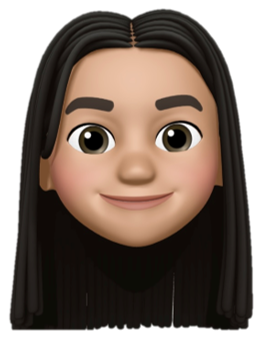
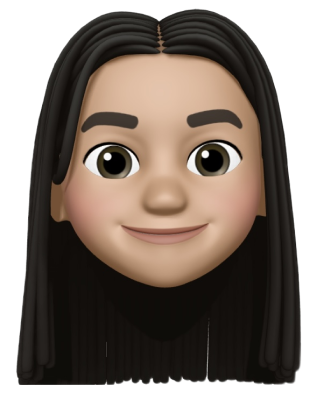
added styling and replaced memoji image

diff --git a/styles/contact.css b/styles/contact.css
@@ -1,0 +1,88 @@
+* {
+  font-family: "Azeret Mono", monospace;
+  color: #1e1e1e;
+  margin: 0;
+}
+
+body {
+  background-image: url("../../../images/gradient.jpg");
+  height: 100vh;
+  width: 100vw;
+  display: flex;
+  flex-direction: column;
+  justify-content: space-between;
+}
+
+main {
+  display: flex;
+  align-items: center;
+  justify-content: space-between;
+  padding: 0 10vw;
+}
+main .navbar {
+  border: 1px solid #1e1e1e;
+  border-top: none;
+  border-bottom: none;
+  border-left: none;
+  margin-right: 80px;
+}
+main .navbar__list {
+  text-align: right;
+  margin-right: 15px;
+}
+main .navbar__item {
+  list-style-type: none;
+  padding: 13px;
+  font-weight: 500;
+}
+main .navbar__item a {
+  text-decoration: none;
+}
+main .navbar__item a:hover {
+  background-color: white;
+}
+
+header {
+  text-align: center;
+  margin-top: 30px;
+}
+header .logo {
+  font-size: 50px;
+  font-weight: 500;
+  margin-bottom: 10px;
+}
+header .breadcrumb {
+  font-size: small;
+  font-weight: 400;
+  color: white;
+}
+
+footer .footer__copyright {
+  text-align: center;
+  font-weight: 200;
+  font-size: 12px;
+  margin-bottom: 30px;
+  color: white;
+}
+
+.memoji {
+  height: 500px;
+}
+
+.contact-information {
+  display: flex;
+  flex-direction: column;
+  gap: 10px;
+}
+.contact-information__title {
+  font-size: 25px;
+  margin-bottom: 30px;
+}
+.contact-information__item {
+  display: flex;
+  align-items: center;
+}
+.contact-information__item__icon {
+  height: 35px;
+  margin-right: 10px;
+}

diff --git a/styles/contact.scss b/styles/contact.scss
@@ -1,0 +1,52 @@
+@use "./partials/variables/palette.scss";
+@use "./partials/mixins/layout.scss";
+
+* {
+  font-family: "Azeret Mono", monospace;
+  color: palette.$primary-text-color;
+  margin: 0;
+}
+
+body {
+  @include layout.body;
+}
+
+main {
+  @include layout.main;
+
+  .navbar {
+    @include layout.navbar;
+  }
+}
+
+header {
+  @include layout.header;
+}
+
+footer {
+  @include layout.footer;
+}
+
+.memoji {
+  height: 500px;
+}
+
+.contact-information {
+  display: flex;
+  flex-direction: column;
+  gap: 10px;
+
+  &__title {
+    @include layout.page-heading;
+  }
+
+  &__item {
+    display: flex;
+    align-items: center;
+
+    &__icon {
+      height: 35px;
+      margin-right: 10px;
+    }
+  }
+}
